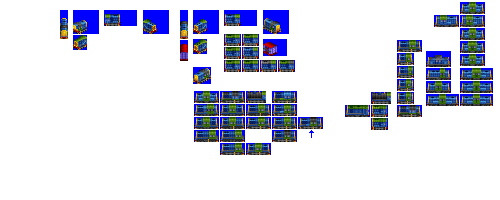
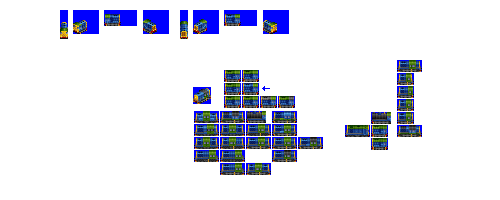
Change: Gronk complete

diff --git a/src/vehicles/gronk.py b/src/vehicles/gronk.py
@@ -15,8 +15,8 @@ def main(roster):
                             random_reverse=True,
                             joker=True,
                             gen=4,
-                            intro_date_offset=2, # introduce later than gen epoch by design
-                            sprites_complete=False)
+                            intro_date_offset=-9, # introduce later than gen epoch by design
+                            sprites_complete=True)
 
     consist.add_unit(type=DieselEngineUnit,
                      weight=55,
